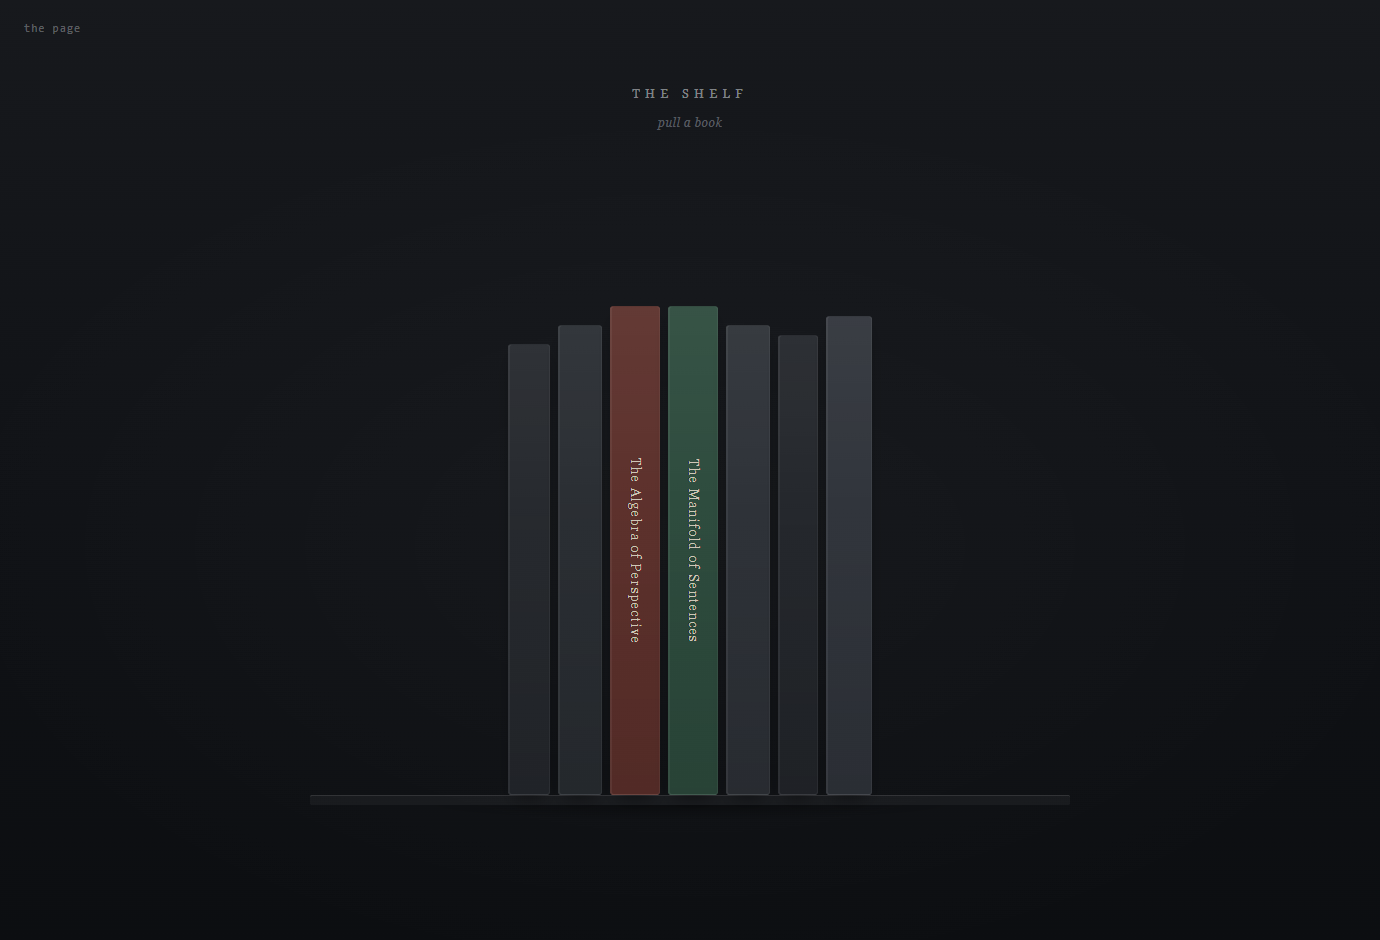
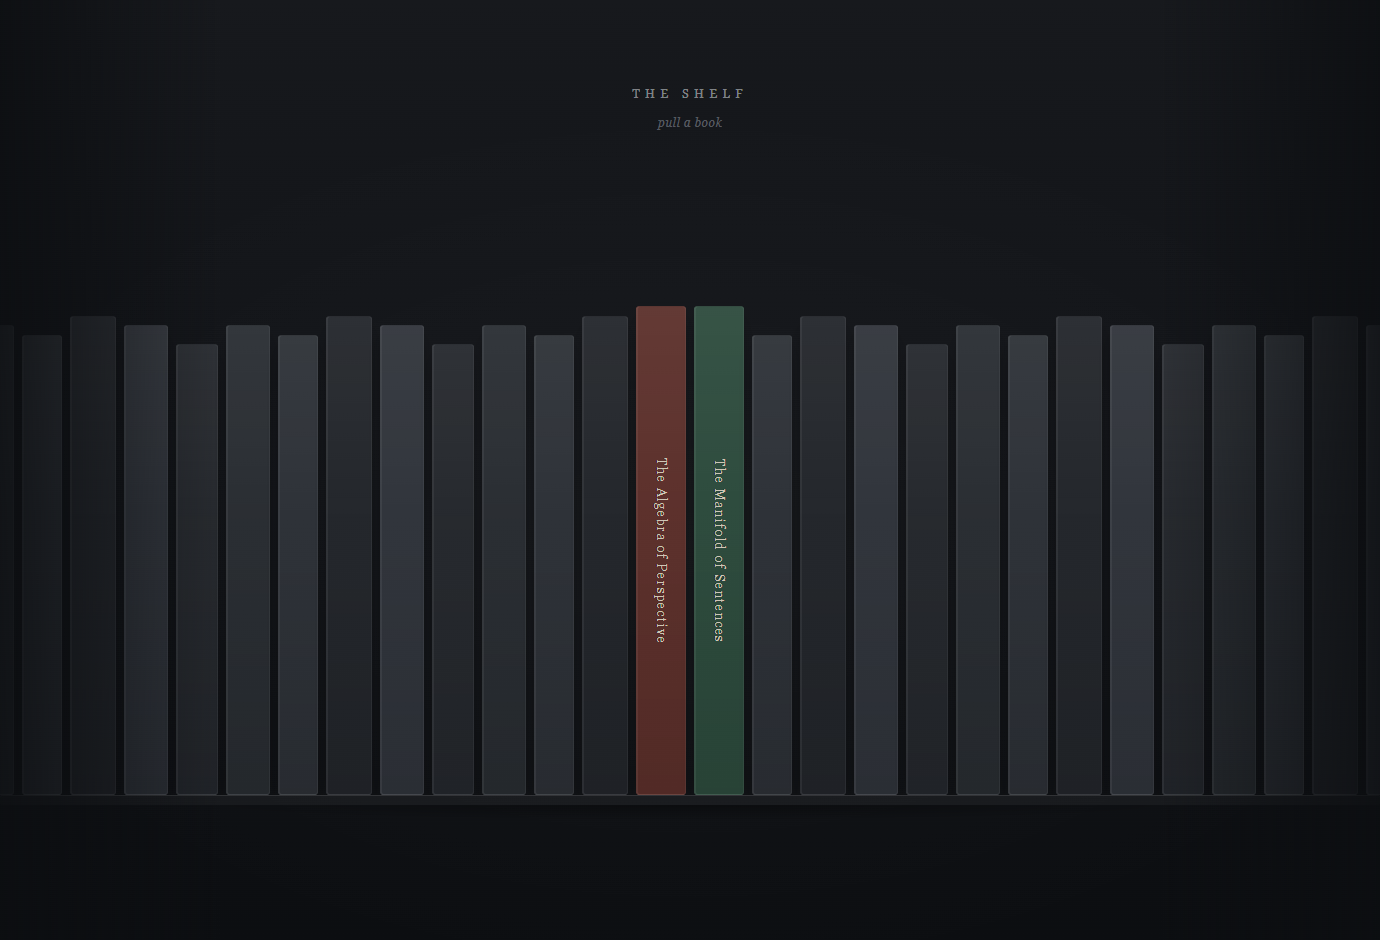
The shelf runs the full width of the screen: the same quiet pattern extended edge to edge (a cycling graphite filler, clipped at the sides) under a gentle gentle side dimming that keeps the eye at the center where the two inked books stand; the corner page-link removed — we get there through the boo

Changed region(s): [[0.0935, 0.3085, 0.8725, 0.8638], [0.8725, 0.3394, 0.9036, 0.3702]]

diff --git a/library/.public/package/app/src/sections/the-books.tsx b/library/.public/package/app/src/sections/the-books.tsx
@@ -3,18 +3,25 @@ import { $, $Chemical } from '@dna-platform/chemistry';
 import { algebra } from './book/library/algebra/book';
 import { manifold } from './book/library/the-manifold/book';
 import { TheManifold } from './the-manifold';
-import { Room, PageLink, Caption, Board, Row, BoardTop, BoardShadow, Spine, SpineTitle } from './book/shelf.styled';
+import { Room, Caption, Board, Row, BoardTop, BoardShadow, Spine, SpineTitle } from './book/shelf.styled';
 
 type SpineData = { key?: string; href?: string; title?: string; ink: string; tall: number; wide: number };
 
-const spines: SpineData[] = [
+const graphite: SpineData[] = [
     { ink: '#24272c', tall: 48, wide: 42 },
     { ink: '#282c31', tall: 50, wide: 44 },
+    { ink: '#2c3036', tall: 49, wide: 40 },
+    { ink: '#22252a', tall: 51, wide: 46 },
+    { ink: '#2f333a', tall: 50, wide: 44 },
+];
+
+const filler = (n: number, offset = 0): SpineData[] => Array.from({ length: n }, (_, i) => graphite[(i + offset) % graphite.length]);
+
+const spines: SpineData[] = [
+    ...filler(14),
     { key: 'algebra', href: '/page', title: algebra.title?.copy ?? '', ink: '#5b2f2a', tall: 52, wide: 50 },
     { key: 'manifold', title: manifold.title?.copy ?? '', ink: '#2c4a3c', tall: 52, wide: 50 },
-    { ink: '#2c3036', tall: 50, wide: 44 },
-    { ink: '#22252a', tall: 49, wide: 40 },
-    { ink: '#2f333a', tall: 51, wide: 46 },
+    ...filler(14, 2),
 ];
 
 class $TheBooks extends $Chemical {
@@ -24,7 +31,6 @@ class $TheBooks extends $Chemical {
         if (this.opened === 'manifold') return <TheManifold />;
         return (
             <Room>
-                <PageLink href="/page">the page</PageLink>
                 <Caption>
                     the shelf
                     <em>pull a book</em>

diff --git a/library/.public/package/app/src/sections/book/shelf.styled.ts b/library/.public/package/app/src/sections/book/shelf.styled.ts
@@ -7,21 +7,13 @@ export const Room = styled.div`
     background:
         radial-gradient(1100px 640px at 50% 58%, rgba(255, 255, 255, 0.028) 0%, rgba(255, 255, 255, 0) 70%),
         linear-gradient(180deg, #17191d 0%, #101216 55%, #0c0e11 100%);
-`;
 
-export const PageLink = styled.a`
-    position: absolute;
-    top: 20px;
-    left: 24px;
-    font-family: ui-monospace, Menlo, Consolas, monospace;
-    font-size: 11px;
-    letter-spacing: 0.1em;
-    color: rgba(200, 204, 208, 0.38);
-    text-decoration: none;
-    transition: color 140ms;
-
-    &:hover {
-        color: rgba(224, 227, 230, 0.85);
+    &::after {
+        content: '';
+        position: absolute;
+        inset: 0;
+        pointer-events: none;
+        background: linear-gradient(90deg, rgba(12, 14, 17, 0.82) 0%, rgba(12, 14, 17, 0) 16%, rgba(12, 14, 17, 0) 84%, rgba(12, 14, 17, 0.82) 100%);
     }
 `;
 
@@ -49,10 +41,9 @@ export const Caption = styled.div`
 
 export const Board = styled.div`
     position: absolute;
-    left: 50%;
+    left: 0;
     bottom: 12vh;
-    transform: translateX(-50%);
-    width: min(760px, 92vw);
+    width: 100vw;
 `;
 
 export const Row = styled.div`
@@ -60,7 +51,8 @@ export const Row = styled.div`
     align-items: flex-end;
     justify-content: center;
     gap: 8px;
-    padding: 0 26px;
+    width: 100vw;
+    overflow: hidden;
 `;
 
 export const BoardTop = styled.div`
